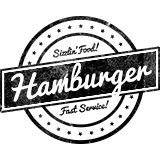
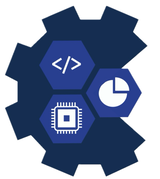
Edição aba Projetos e habilidades

diff --git a/index.html b/index.html
@@ -49,10 +49,10 @@
                 <a class="pt-trigger" href="index.html#resume">Currículo</a>
               </li>
               <li>
-                <a class="pt-trigger" href="index.html#services">Serviços</a>
+                <a class="pt-trigger" href="index.html#services">Projetos & Habilidades</a>
               </li>
               <li>
-                <a class="pt-trigger" href="index.html#portfolio">Portfólio</a>
+                <a class="pt-trigger" href="index.html#portfolio">Projetos em ação</a>
               </li>
             </ul>
             <!-- /Main menu -->
@@ -314,7 +314,7 @@
             <section class="pt-page" data-id="services">
               <div class="section-inner custom-page-content">
                 <div class="page-header color-1">
-                  <h2>Serviços Prestados</h2>
+                  <h2>Projetos & Habilidades</h2>
                 </div>
                 <div class="page-content">
                   <!-- My Services -->
@@ -332,20 +332,8 @@
                           <div class="service-image">
                             <img src="images/service/web_design_icon.png" alt="Responsive Design" class="mCS_img_loaded">
                           </div>
-                          <h4>Web Design</h4>
-                          <p>Lorem ipsum dolor sit amet, consectetur adipisicing elit, sed do eiusmod tempor.</p>
-                        </div>
-                      </div>
-                    </div>
-
-                    <div class="col-sm-6 col-md-3">
-                      <div class="service-block"> 
-                        <div class="service-info">
-                          <div class="service-image">
-                            <img src="images/service/photography_icon.png" alt="Photography" class="mCS_img_loaded">
-                          </div>
-                          <h4>Photography</h4>
-                          <p>Lorem ipsum dolor sit amet, consectetur adipisicing elit, sed do eiusmod tempor.</p>
+                          <h4>Desenvolvimento</h4>
+                          <p>Desenvolvimento de soluções utilizando lógica de programação, com interesse em criar aplicações funcionais e eficientes.</p>
                         </div>
                       </div>
                     </div>
@@ -356,8 +344,8 @@
                           <div class="service-image">
                             <img src="images/service/creativity_icon.png" alt="Creativity" class="mCS_img_loaded">
                           </div>
-                          <h4>Management</h4>
-                          <p>Lorem ipsum dolor sit amet, consectetur adipisicing elit, sed do eiusmod tempor.</p>
+                          <h4>Gestão</h4>
+                          <p>Organização de processos, gestão de tarefas e apoio administrativo com foco em eficiência e planejamento.</p>
                         </div>
                       </div>
                     </div>
@@ -368,8 +356,8 @@
                           <div class="service-image">
                             <img src="images/service/advetising_icon.png" alt="Advetising" class="mCS_img_loaded">
                           </div>
-                          <h4>Advertising</h4>
-                          <p>Lorem ipsum dolor sit amet, consectetur adipisicing elit, sed do eiusmod tempor.</p>
+                          <h4>Comunicação</h4>
+                          <p>Facilidade em trabalhar em equipe, apresentar ideias e manter uma comunicação clara e objetiva.</p>
                         </div>
                       </div>
                     </div>
@@ -377,57 +365,14 @@
                   <!-- End of My Services -->
 
                   <!-- Clients -->
-                  <div class="row">
-                    <div class="col-sm-12 col-md-12">
-                      <div class="block-title">
-                        <h3>Clientes</h3>
-                      </div>
-
-                      <div class="col-sm-4 col-md-2 subpage-block">
-                        <div class="client-block">
-                          <a href="index.html#" target="_blank"><img src="images/clients/client_1.png" alt="image" class="mCS_img_loaded"></a>
-                        </div>
-                      </div>
-
-                      <div class="col-sm-4 col-md-2 subpage-block">
-                        <div class="client-block">
-                          <a href="index.html#" target="_blank"><img src="images/clients/client_2.png" alt="image" class="mCS_img_loaded"></a>
-                        </div>
-                      </div>
-
-                      <div class="col-sm-4 col-md-2 subpage-block">
-                        <div class="client-block">
-                          <a href="index.html#" target="_blank"><img src="images/clients/client_3.png" alt="image" class="mCS_img_loaded"></a>
-                        </div>
-                      </div>
-
-                      <div class="col-sm-4 col-md-2 subpage-block">
-                        <div class="client-block">
-                          <a href="index.html#" target="_blank"><img src="images/clients/client_4.png" alt="image" class="mCS_img_loaded"></a>
-                        </div>
-                      </div>
-
-                      <div class="col-sm-4 col-md-2 subpage-block">
-                        <div class="client-block">
-                          <a href="index.html#" target="_blank"><img src="images/clients/client_5.png" alt="image" class="mCS_img_loaded"></a>
-                        </div>
-                      </div>
-
-                      <div class="col-sm-4 col-md-2 subpage-block">
-                        <div class="client-block">
-                          <a href="index.html#" target="_blank"><img src="images/clients/client_6.png" alt="image" class="mCS_img_loaded"></a>
-                        </div>
-                      </div>
-
-                    </div>
-                  </div>
+                
                   <!-- End of Clients -->
-
+                
                   <!-- Testimonials -->
                   <div class="row">
                     <div class="col-sm-12 col-md-12">
                       <div class="block-title">
-                        <h3>Depoimentos de clientes</h3>
+                        <h3>Projetos da UNIFEI</h3>
                       </div>
 
 
@@ -438,20 +383,21 @@
                           <div class="testimonial-credits">
                             <!-- Picture -->
                             <div class="testimonial-picture">
-                              <img src="images/testimonials/testimonial_photo_1.jpg" alt="">
+                              <img src="images/testimonials/testimonial_photo_1.png" alt="">
                             </div>              
                             <!-- /Picture -->
                             <!-- Testimonial author information -->
                             <div class="testimonial-author-info">
-                              <p class="testimonial-author">Maria Richardson</p>
-                              <p class="testimonial-firm">Lindsley's Lumber</p>
+                              <p class="testimonial-author">Fundação Asimo</p>
+                              <p class="testimonial-firm">Marketing</p>
                             </div>
                           </div>
                           <!-- /Testimonial author information -->
                           <!-- Testimonial Content -->
                           <div class="testimonial-content">
                             <div class="testimonial-text">
-                              <p>"Phasellus eu nunc tincidunt, ultricies elit vitae, pretium eros. Sed sed ipsum sed massa."</p>
+                              <p>A Fundação Asimo é um projeto social de extensão da UNIFEI que oferece aulas de robótica para escolas públicas de Itajubá, promovendo educação tecnológica e inclusão.
+</p>
                             </div>
                           </div>            
                           <!-- /Testimonial Content -->                
@@ -464,20 +410,20 @@
                           <div class="testimonial-credits">
                             <!-- Picture -->
                             <div class="testimonial-picture">
-                              <img src="images/testimonials/testimonial_photo_2.jpg" alt="">
+                              <img src="images/testimonials/testimonial_photo_2.png" alt="">
                             </div>              
                             <!-- /Picture -->
                             <!-- Testimonial author information -->
                             <div class="testimonial-author-info">
-                              <p class="testimonial-author">John Doe</p>
-                              <p class="testimonial-firm">Apple Inc.</p>
+                              <p class="testimonial-author">DACOMP</p>
+                              <p class="testimonial-firm">Representante discente</p>
                             </div>
                           </div>
                           <!-- /Testimonial author information -->
                           <!-- Testimonial Content -->
                           <div class="testimonial-content">
                             <div class="testimonial-text">
-                              <p>"Vivamus porta dapibus tristique. Suspendisse et arcu eget nisi convallis eleifend nec ac lorem.</p>
+                              <p>O DACOMP é o diretório acadêmico dos cursos de computação da UNIFEI, responsável por representar os estudantes e promover atividades acadêmicas, sociais e de integração.</p>
                             </div>
                           </div>            
                           <!-- /Testimonial Content -->                
@@ -490,20 +436,21 @@
                           <div class="testimonial-credits">
                             <!-- Picture -->
                             <div class="testimonial-picture">
-                              <img src="images/testimonials/testimonial_photo_3.jpg" alt="">
+                              <img src="images/testimonials/testimonial_photo_3.jfif" alt="">
                             </div>              
                             <!-- /Picture -->
                             <!-- Testimonial author information -->
                             <div class="testimonial-author-info">
-                              <p class="testimonial-author">George McQueen</p>
-                              <p class="testimonial-firm">Harmony House</p>
+                              <p class="testimonial-author">Asimov Jr.</p>
+                              <p class="testimonial-firm">Trainee Desktop</p>
                             </div>
                           </div>
                           <!-- /Testimonial author information -->
                           <!-- Testimonial Content -->
                           <div class="testimonial-content">
                             <div class="testimonial-text">
-                              <p>"Aliquam congue auctor lectus sed fermentum. Nulla ultricies tellus quis sapien lacinia egestas."</p>
+                              <p>A Asimov Jr. é uma Empresa Junior da UNIFEI, voltada ao desenvolvimento de soluções tecnológicas e à capacitação prática dos estudantes por meio de projetos reais.
+</p>
                             </div>
                           </div>            
                           <!-- /Testimonial Content -->                